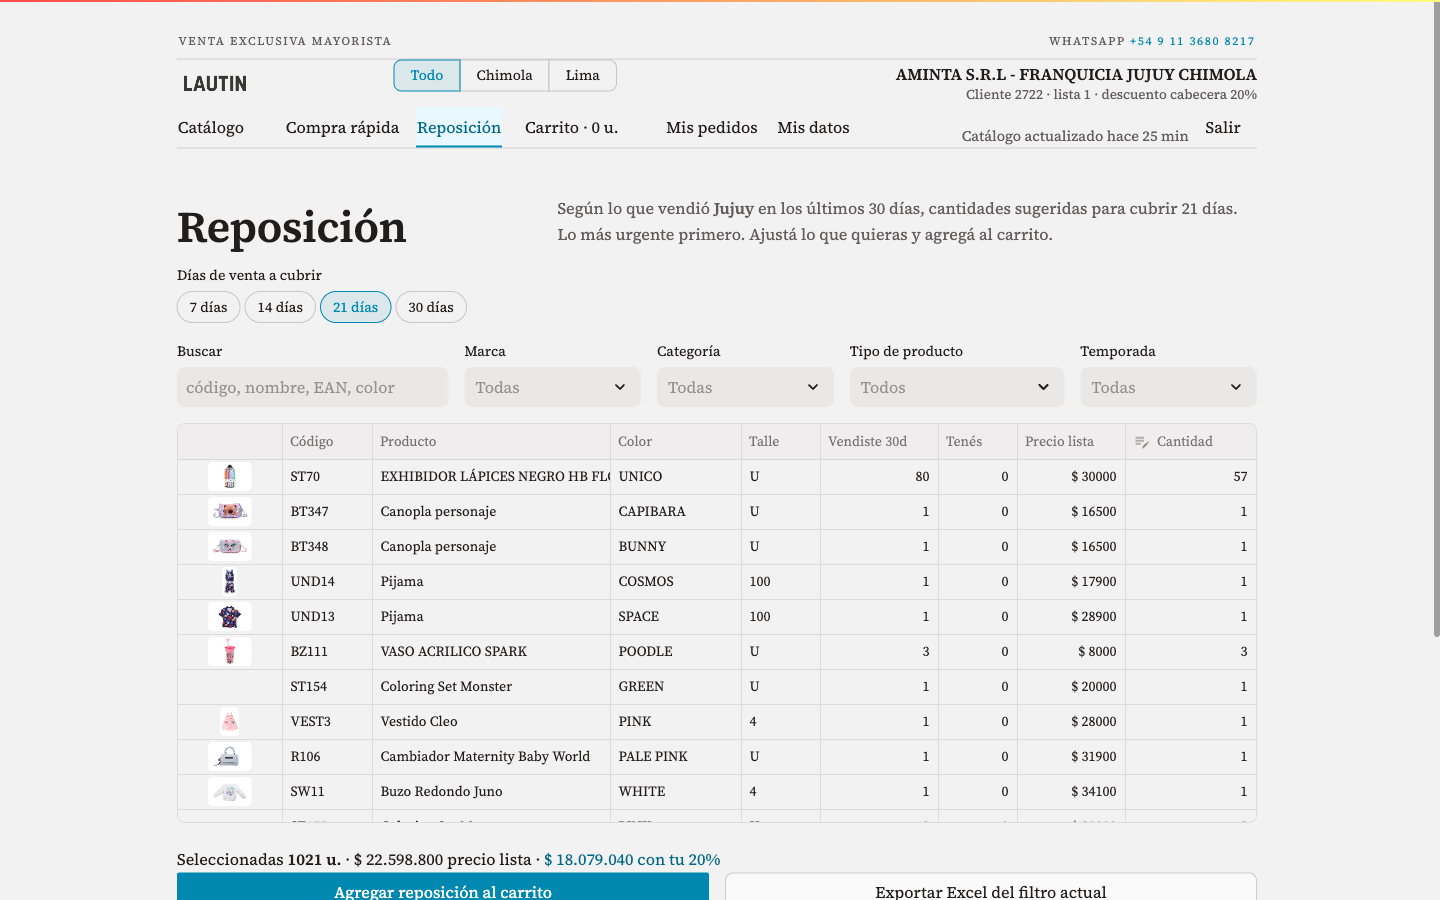
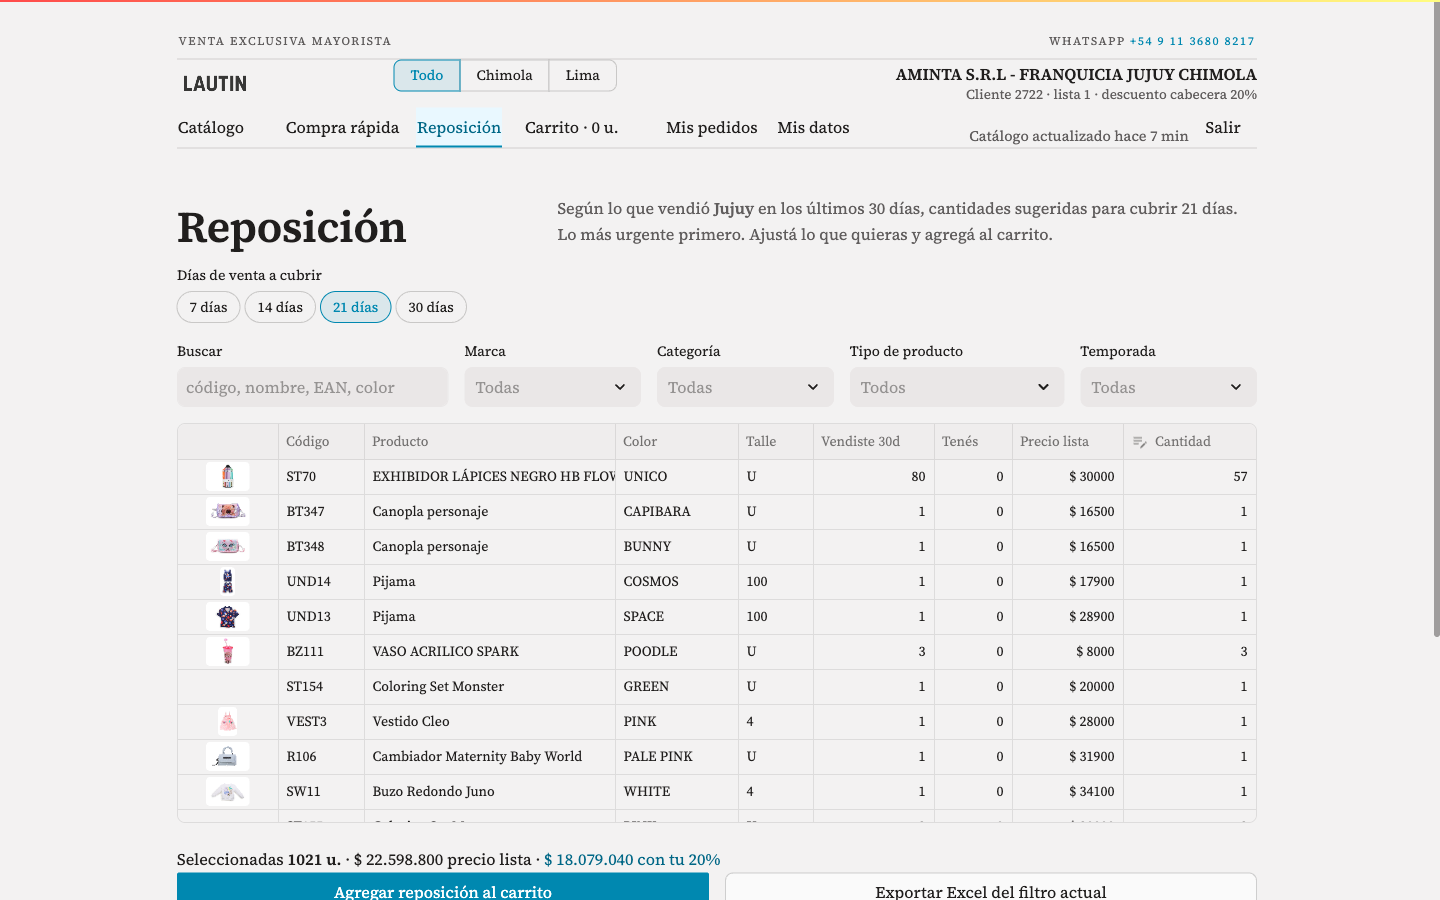
Presentación: ronda de correcciones de contenido
- Compra rápida: sin el bullet del orden por foto (truco interno); captura
  con filtro aplicado (Billeteras, 477 variantes).
- Circuito Excel: animación en dos fases (los botones Exportar/Descargar
  en el sitio → el Excel real con miniaturas).
- Reposición: sin mención a Odoo; captura con la propuesta y la línea de
  seleccionadas a la vista.
- Autogestión: sin el bullet de avisos honestos.
- Editor de producto: animación en dos fases (datos/precios/variantes →
  variantes manuales, fotos por color y portada).
- Cliente: sin nombre en Odoo. Pedidos: título «Los pedidos pueden
  modificarse». Historia: «Métricas:» y sin reposición sugerida.
- Sin guiones medios en todo el deck; cierre sin «Probalo hoy» ni
  «ambiente de prueba».

Claude-Session: https://claude.ai/code/session_01L96DzHR7EepPvCdgaQbg37

diff --git a/presentacion/index.html b/presentacion/index.html
@@ -3,7 +3,7 @@
 <head>
 <meta charset="utf-8">
 <meta name="viewport" content="width=device-width, initial-scale=1">
-<title>Sitio Mayorista B2B — Lautin</title>
+<title>Sitio Mayorista B2B · Lautin</title>
 <link rel="preconnect" href="https://fonts.googleapis.com">
 <link rel="preconnect" href="https://fonts.gstatic.com" crossorigin>
 <link href="https://fonts.googleapis.com/css2?family=Source+Serif+4:opsz,wght@8..60,400;8..60,600;8..60,700&display=swap" rel="stylesheet">
@@ -107,7 +107,7 @@
   <!-- 1 · Portada -->
   <section class="slide centro">
     <img class="logo" src="img/logo_lautin.png" alt="Lautin" style="height:74px">
-    <div class="kicker reveal">Chimola · Lima — venta exclusiva mayorista</div>
+    <div class="kicker reveal">Chimola · Lima · venta exclusiva mayorista</div>
     <h1 class="reveal">Sitio Mayorista B2B</h1>
     <div class="linea reveal"></div>
     <p class="sub reveal" style="max-width:46ch; margin:0 auto">Cuatro formas de comprar, un admin que
@@ -127,7 +127,7 @@
         <li class="reveal">Y el switch <b>“Encender el sitio”</b>: todo el catálogo en colores claros.</li>
       </ul>
     </div>
-    <div class="browser reveal"><div class="bar"><i></i><i></i><i></i><span>mayorista.lautin — Catálogo</span></div>
+    <div class="browser reveal"><div class="bar"><i></i><i></i><i></i><span>mayorista.lautin / Catálogo</span></div>
       <div class="xfade">
         <img src="img/01_catalogo.png" alt="Catálogo">
         <img src="img/01b_encendido.png" alt="Catálogo encendido">
@@ -143,12 +143,12 @@
       <h2 class="reveal">Tocá «Cargar cantidades»</h2>
       <ul class="puntos">
         <li class="reveal">Producto con <b>colores</b>: una fila por color, y listo.</li>
-        <li class="reveal">Con <b>talle y color</b>: la matriz completa — <b>todas las variantes de una sola vez</b>.</li>
+        <li class="reveal">Con <b>talle y color</b>: la matriz completa, <b>todas las variantes de una sola vez</b>.</li>
         <li class="reveal">Total en vivo, aviso si pedís de más (sin revelar el stock) y al carrito.</li>
         <li class="reveal">Arriba, la galería: las miniaturas cambian el visor por color.</li>
       </ul>
     </div>
-    <div class="browser reveal"><div class="bar"><i></i><i></i><i></i><span>mayorista.lautin — Producto</span></div>
+    <div class="browser reveal"><div class="bar"><i></i><i></i><i></i><span>mayorista.lautin / Producto</span></div>
       <div class="xfade">
         <img src="img/02a_color.png" alt="Variantes solo por color">
         <img src="img/02b_talle_color.png" alt="Matriz talle por color">
@@ -167,10 +167,9 @@
         <li class="reveal">Una sola vista: <b>todo el catálogo en una tabla</b> con miniaturas.</li>
         <li class="reveal">Cinco filtros que se cruzan solos (marca, categoría, tipo, temporada + búsqueda).</li>
         <li class="reveal"><b>Cantidades directo sobre la lista</b> y un click al carrito.</li>
-        <li class="reveal">Las variantes con foto van primero.</li>
       </ul>
     </div>
-    <div class="browser reveal"><div class="bar"><i></i><i></i><i></i><span>mayorista.lautin — Compra rápida</span></div>
+    <div class="browser reveal"><div class="bar"><i></i><i></i><i></i><span>mayorista.lautin / Compra rápida</span></div>
       <img src="img/05_compra_rapida.png" alt="Compra rápida"></div>
   </div></section>
 
@@ -180,14 +179,20 @@
       <div class="kicker reveal">Cómo se compra · 4 de 4</div>
       <h2 class="reveal">El circuito Excel</h2>
       <ul class="puntos">
-        <li class="reveal"><b>Exportás el filtro</b>: miniaturas, link a cada foto, precios de TU lista y totales con tu descuento.</li>
+        <li class="reveal">Filtrás lo que quieras y <b>exportás</b>: miniaturas, link a cada foto, precios de TU lista y totales con tu descuento.</li>
         <li class="reveal">Todo bloqueado salvo <b>Cantidad</b> (resaltada): imposible romperlo.</li>
         <li class="reveal">Lo completás offline, con quien quieras, y <b>lo subís tal cual</b>.</li>
         <li class="reveal">El sitio reconcilia línea por línea: agregadas, ajustadas, sin reconocer.</li>
       </ul>
     </div>
-    <div class="browser reveal"><div class="bar"><i></i><i></i><i></i><span>compra_rapida.xlsx — Excel</span></div>
-      <img src="img/04_excel.png" alt="Excel exportado con miniaturas"></div>
+    <div class="browser reveal"><div class="bar"><i></i><i></i><i></i><span>Exportar → completar → subir</span></div>
+      <div class="xfade">
+        <img src="img/05b_export.png" alt="Botones de exportar en el sitio">
+        <img src="img/04_excel.png" alt="El Excel exportado con miniaturas">
+        <div class="tag tag1">En el sitio</div>
+        <div class="tag">El Excel</div>
+      </div>
+    </div>
   </div></section>
 
   <!-- 6 · Forma 4: reposición (franquicias) -->
@@ -198,11 +203,10 @@
       <ul class="puntos">
         <li class="reveal">Cruza <b>lo que vendió tu punto de venta</b> con lo disponible en Ezeiza.</li>
         <li class="reveal">Días a cubrir (7/14/21/30), filtros y <b>cantidades sugeridas editables</b>.</li>
-        <li class="reveal">Un click al carrito — o el mismo circuito Excel, ya precargado.</li>
-        <li class="reveal">Y el pedido sale en <b>formato Odoo</b>, listo para importar en tu sistema.</li>
+        <li class="reveal">Un click al carrito, o el mismo circuito Excel, ya precargado.</li>
       </ul>
     </div>
-    <div class="browser reveal"><div class="bar"><i></i><i></i><i></i><span>mayorista.lautin — Reposición</span></div>
+    <div class="browser reveal"><div class="bar"><i></i><i></i><i></i><span>mayorista.lautin / Reposición</span></div>
       <img src="img/06_reposicion.png" alt="Reposición sugerida"></div>
   </div></section>
 
@@ -213,12 +217,11 @@
       <h2 class="reveal">El cliente se maneja solo</h2>
       <ul class="puntos">
         <li class="reveal"><b>Mis pedidos</b>: historial con estados, detalle completo, repetir, re-descargar el Excel.</li>
-        <li class="reveal">Puede <b>cancelar</b> mientras Lautin no lo procesó — con aviso automático.</li>
+        <li class="reveal">Puede <b>cancelar</b> mientras Lautin no lo procesó, con aviso automático.</li>
         <li class="reveal"><b>Mis datos</b>: contacto, teléfono y cambio de password, sin llamar a nadie.</li>
-        <li class="reveal">Avisos honestos: cuánto falta para el mínimo, qué se ajustó y por qué.</li>
       </ul>
     </div>
-    <div class="browser reveal"><div class="bar"><i></i><i></i><i></i><span>mayorista.lautin — Mis pedidos</span></div>
+    <div class="browser reveal"><div class="bar"><i></i><i></i><i></i><span>mayorista.lautin / Mis pedidos</span></div>
       <img src="img/07_pedidos.png" alt="Mis pedidos"></div>
   </div></section>
 
@@ -230,12 +233,18 @@
       <ul class="puntos">
         <li class="reveal"><b>Pisar lo de Aleph</b> cuando haga falta: nombre, descripción, precios por lista, U.B.</li>
         <li class="reveal">Variantes una por una: <b>stock manual, ocultar, precio</b>.</li>
-        <li class="reveal"><b>Fotos por color</b> + elegir la <b>portada</b> del catálogo.</li>
-        <li class="reveal">Publicar / ocultar / destacar — solo o en lote por tipo, temporada o categoría.</li>
+        <li class="reveal"><b>Fotos por color</b>, <b>variantes manuales</b> y elegir la <b>portada</b> del catálogo.</li>
+        <li class="reveal">Publicar / ocultar / destacar: solo o en lote por tipo, temporada o categoría.</li>
       </ul>
     </div>
-    <div class="browser reveal"><div class="bar"><i></i><i></i><i></i><span>mayorista.lautin — Administración</span></div>
-      <img src="img/08_admin_editor.png" alt="Editor de producto"></div>
+    <div class="browser reveal"><div class="bar"><i></i><i></i><i></i><span>mayorista.lautin / Administración</span></div>
+      <div class="xfade">
+        <img src="img/08_admin_editor.png" alt="Datos, precios y variantes">
+        <img src="img/08b_admin_fotos.png" alt="Variantes manuales, fotos por color y portada">
+        <div class="tag tag1">Datos, precios y variantes</div>
+        <div class="tag">Fotos y portada</div>
+      </div>
+    </div>
   </div></section>
 
   <!-- 9 · Admin: cliente -->
@@ -245,12 +254,12 @@
       <h2 class="reveal">Todo editable: el cliente</h2>
       <ul class="puntos">
         <li class="reveal"><b>Rol y cliente de Aleph</b> de cada usuario de acceso.</li>
-        <li class="reveal">Overrides de <b>descuento y lista de precios</b> — sin tocar el ERP.</li>
-        <li class="reveal">Contacto, CUIT y <b>nombre en Odoo</b> para el export de franquicias.</li>
+        <li class="reveal">Overrides de <b>descuento y lista de precios</b>, sin tocar el ERP.</li>
+        <li class="reveal"><b>Contacto y CUIT</b> del cliente, siempre a mano.</li>
         <li class="reveal">Alta de usuarios, <b>reset de password</b>, activar/desactivar.</li>
       </ul>
     </div>
-    <div class="browser reveal"><div class="bar"><i></i><i></i><i></i><span>mayorista.lautin — Administración</span></div>
+    <div class="browser reveal"><div class="bar"><i></i><i></i><i></i><span>mayorista.lautin / Administración</span></div>
       <img src="img/09_cliente_edit.png" alt="Edición de cliente"></div>
   </div></section>
 
@@ -258,15 +267,15 @@
   <section class="slide"><div class="split">
     <div>
       <div class="kicker reveal">Qué maneja el equipo<span class="badge">Admin</span></div>
-      <h2 class="reveal">Los pedidos también se tocan</h2>
+      <h2 class="reveal">Los pedidos pueden modificarse</h2>
       <ul class="puntos">
         <li class="reveal"><b>Modificar un pedido confirmado</b>: cambiar cantidades o quitar líneas.</li>
         <li class="reveal">Recalcula totales, <b>regenera el Excel</b> y le avisa al cliente qué cambió.</li>
-        <li class="reveal">Estados con un click (procesado / cancelado) — y una vez procesado, <b>inmutable</b>.</li>
+        <li class="reveal">Estados con un click (procesado / cancelado); una vez procesado, <b>inmutable</b>.</li>
         <li class="reveal">Cada cambio queda en el historial del pedido, con quién y cuándo.</li>
       </ul>
     </div>
-    <div class="browser reveal"><div class="bar"><i></i><i></i><i></i><span>mayorista.lautin — Administración</span></div>
+    <div class="browser reveal"><div class="bar"><i></i><i></i><i></i><span>mayorista.lautin / Administración</span></div>
       <img src="img/10b_modificar.png" alt="Modificar pedido"></div>
   </div></section>
 
@@ -276,13 +285,12 @@
       <div class="kicker reveal">Qué maneja el equipo<span class="badge">Admin</span></div>
       <h2 class="reveal">La historia de cada cliente</h2>
       <ul class="puntos">
-        <li class="reveal">Métricas al toque: <b>total histórico, ticket promedio, último pedido</b>.</li>
+        <li class="reveal">Métricas: <b>total histórico, ticket promedio, último pedido</b>.</li>
         <li class="reveal">Todos sus pedidos con estados, y el <b>top de productos</b> que compra.</li>
         <li class="reveal"><b>Import del historial de Aleph</b>: los pedidos previos al sitio, sin duplicar.</li>
-        <li class="reveal">Y su reposición sugerida, para llegar a la llamada con la propuesta armada.</li>
       </ul>
     </div>
-    <div class="browser reveal"><div class="bar"><i></i><i></i><i></i><span>mayorista.lautin — Administración</span></div>
+    <div class="browser reveal"><div class="bar"><i></i><i></i><i></i><span>mayorista.lautin / Administración</span></div>
       <img src="img/10_admin_cliente.png" alt="Ficha del cliente"></div>
   </div></section>
 
@@ -293,23 +301,23 @@
       <h2 class="reveal">Siempre con el Excel adjunto</h2>
       <ul class="puntos">
         <li class="reveal">Cada evento avisa solo: <b>confirmación, modificación, procesado, cancelación</b>.</li>
-        <li class="reveal">El Excel va SIEMPRE adjunto — <b>con miniaturas y link a las fotos</b> de cada línea.</li>
+        <li class="reveal">El Excel va SIEMPRE adjunto, <b>con miniaturas y link a las fotos</b> de cada línea.</li>
         <li class="reveal">Si Lautin modifica, el mail dice <b>exactamente qué cambió y qué se quitó</b>.</li>
         <li class="reveal">Los textos se editan desde Config, con vista previa y envío de prueba.</li>
       </ul>
     </div>
-    <div class="browser reveal"><div class="bar"><i></i><i></i><i></i><span>Email — pedido modificado</span></div>
+    <div class="browser reveal"><div class="bar"><i></i><i></i><i></i><span>Email · pedido modificado</span></div>
       <img src="img/11_email_mod.png" alt="Email de modificación"></div>
   </div></section>
 
   <!-- 13 · Cierre -->
   <section class="slide centro">
     <img class="logo" src="img/logo_lautin.png" alt="Lautin">
-    <div class="kicker reveal">Probalo hoy</div>
+    <div class="kicker reveal">El sitio</div>
     <h1 class="reveal" style="font-size:clamp(32px,4.2vw,56px)">Un solo lugar para comprarle a Lautin</h1>
     <div class="linea reveal"></div>
-    <p class="sub reveal" style="max-width:52ch; margin:0 auto">Ambiente de prueba funcionando con datos
-      reales de Aleph. Próximo paso: cuentas para todos los clientes y salida a producción.</p>
+    <p class="sub reveal" style="max-width:52ch; margin:0 auto">Funcionando con los datos reales de
+      Aleph. Próximo paso: cuentas para todos los clientes y salida a producción.</p>
     <div class="reveal"><span class="url">mayorista-b2b-dev-vhnuyigzqa-uc.a.run.app</span></div>
   </section>
 
